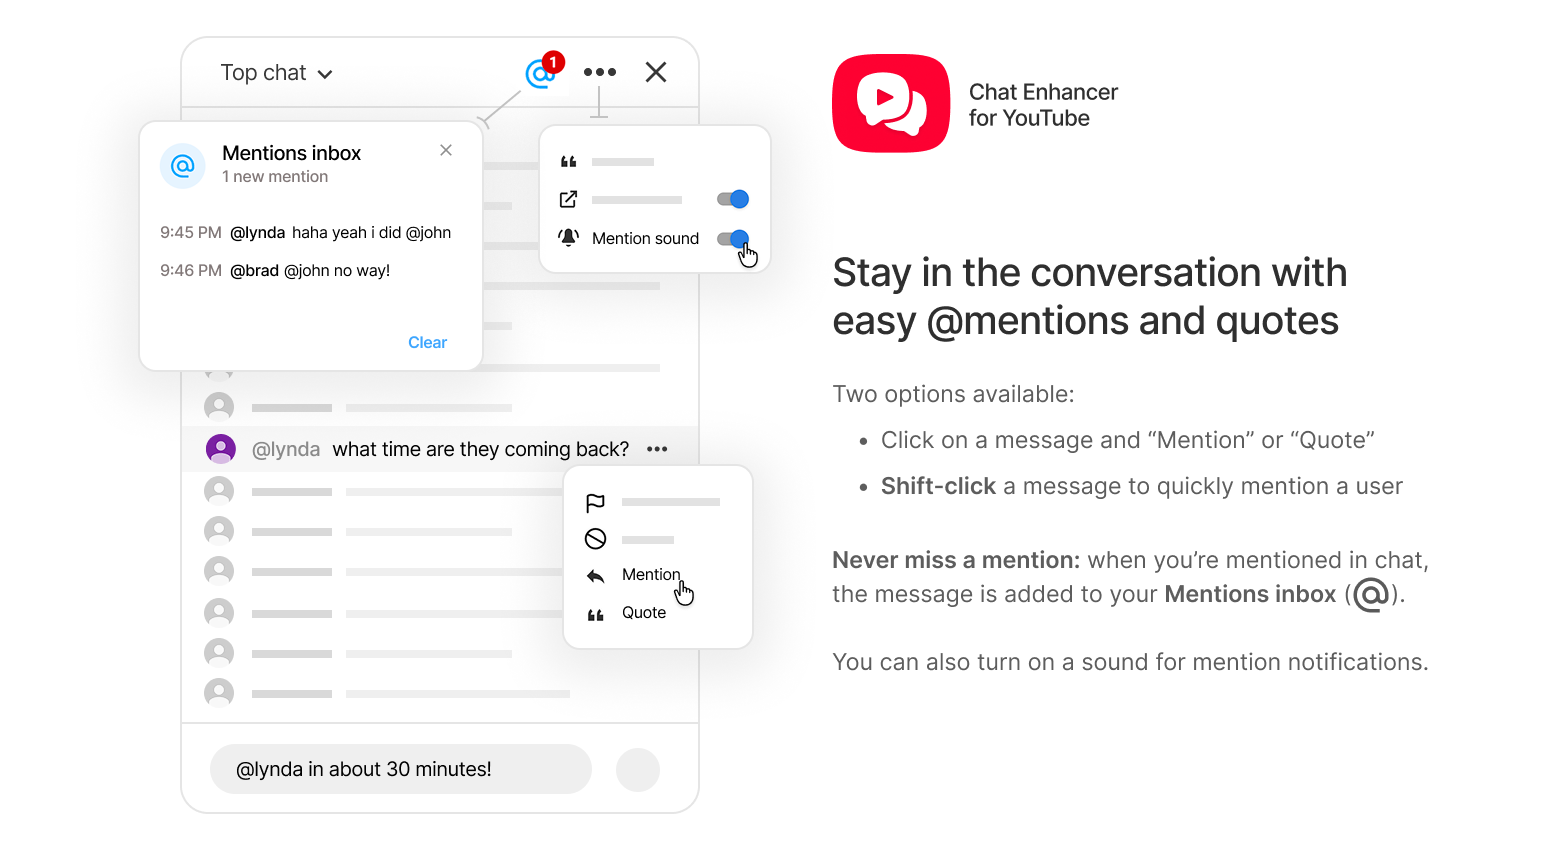
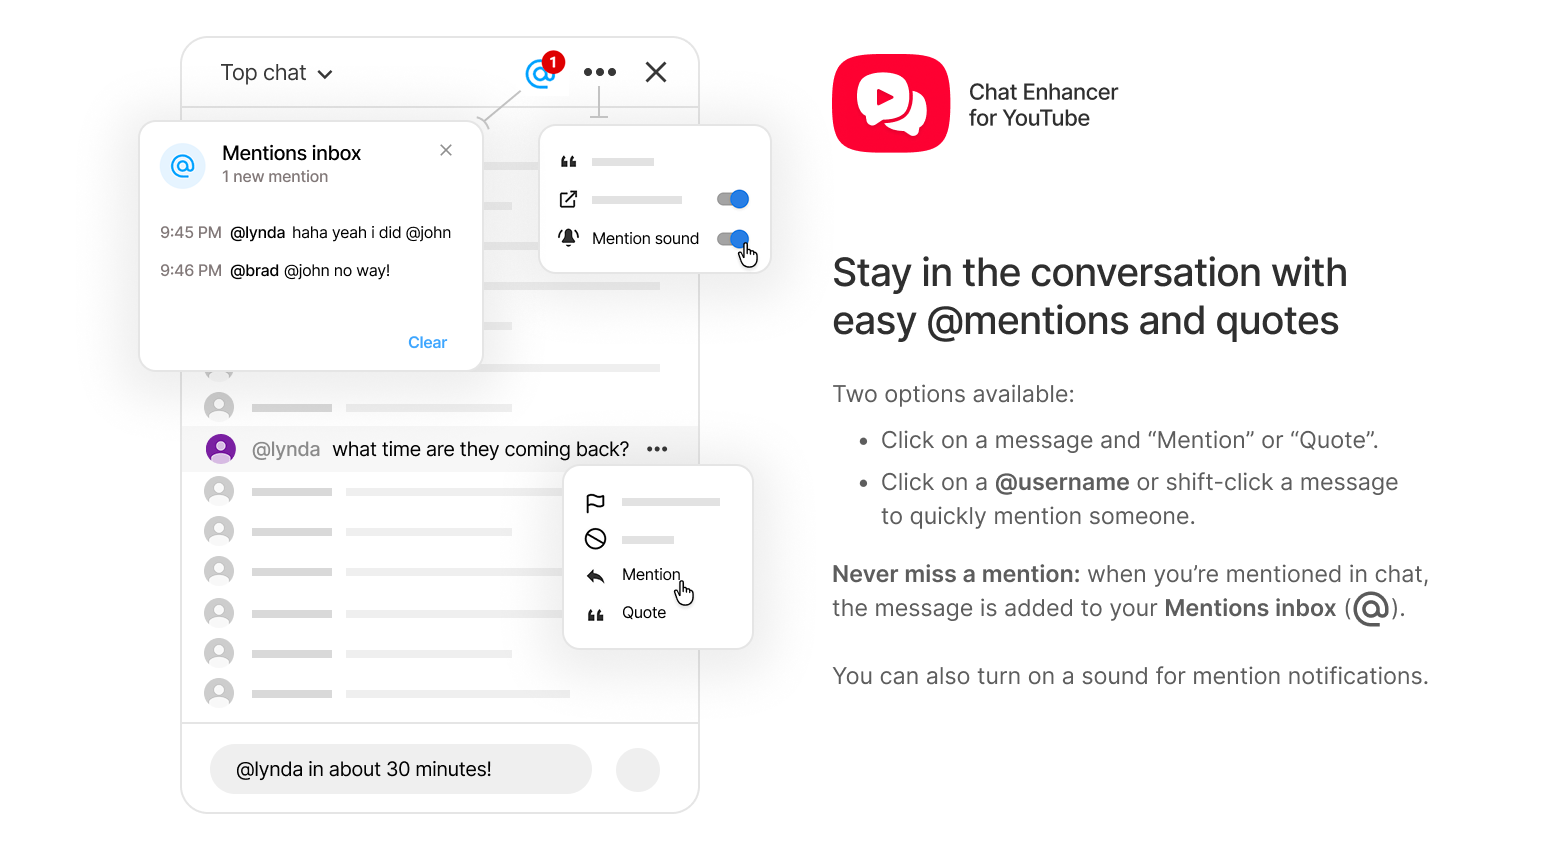
feat: add author-name mention shortcut

Changed region(s): [[0.5292, 0.6408, 0.9339, 0.7324], [0.5292, 0.7629, 0.9339, 0.8239], [0.5603, 0.5493, 0.9027, 0.6103]]

diff --git a/src/features/reply.ts b/src/features/reply.ts
@@ -2,8 +2,9 @@
  * Reply insertion helpers.
  *
  * Mention and Quote insert plain text into YouTube's native chat input.
- * Shift-clicking a message is also treated as a quick Mention shortcut while
- * normal clicks remain available for YouTube's own message UI.
+ * Clicking an author name or shift-clicking a message is also treated as a
+ * quick Mention shortcut while normal message clicks remain available for
+ * YouTube's own message UI.
  */
 import { getOptions } from '../shared/state';
 import { cleanText } from '../shared/text';
@@ -24,6 +25,24 @@ export function handleShiftClickMention(event: MouseEvent): void {
   event.stopPropagation();
   event.stopImmediatePropagation?.();
   replyToMessage(message, { quote: false });
+}
+
+export function wireAuthorNameMention(message: HTMLElement): void {
+  if (message.dataset.ytcqAuthorMentionWired === 'true') return;
+  message.dataset.ytcqAuthorMentionWired = 'true';
+
+  const authorName = message.querySelector<HTMLElement>('#author-name');
+  if (!authorName) return;
+
+  authorName.title = 'Mention user';
+  authorName.addEventListener('click', (event) => {
+    if (event.defaultPrevented || event.button !== 0) return;
+
+    event.preventDefault();
+    event.stopPropagation();
+    event.stopImmediatePropagation?.();
+    replyToMessage(message, { quote: false });
+  }, true);
 }
 
 export function replyToMessage(message: HTMLElement, { quote }: { quote: boolean }): void {

diff --git a/src/content/index.ts b/src/content/index.ts
@@ -13,7 +13,7 @@ import { configureSettingsMenu, refreshSettingsMenus } from '../features/menus/s
 import { handlePotentialMentionsInbox, initMentionsInbox, scheduleMentionsInboxButtonWire } from '../features/mentionsInbox';
 import { handlePotentialMention, initMentionSound } from '../features/mentionSound';
 import { wireProfileClick } from '../features/profilePopup';
-import { handleShiftClickMention } from '../features/reply';
+import { handleShiftClickMention, wireAuthorNameMention } from '../features/reply';
 import {
   clearTranslations,
   getRetroactiveTranslationMessages,
@@ -153,6 +153,7 @@ function enhanceMessage(message: HTMLElement, { allowTranslate }: { allowTransla
   recordUserMessage(message);
   wireMessageContext(message);
   wireProfileClick(message);
+  wireAuthorNameMention(message);
 
   if (allowTranslate) {
     handlePotentialMention(message);